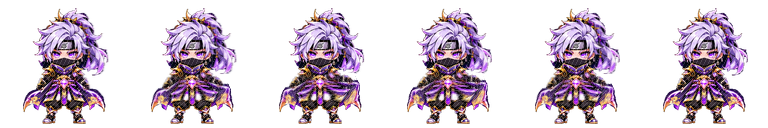
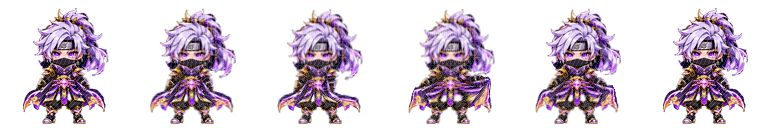
Polish Tsukiyomi expressions and reduced-motion reactions on beta

diff --git a/mythic-hero/articulated-sprite.js b/mythic-hero/articulated-sprite.js
@@ -1,4 +1,4 @@
-/* Tsukiyomi v3: continuous texture skinning of the approved four views.
+/* Tsukiyomi v4: continuous texture skinning of the approved four views.
  * Mesh construction happens only on a body-cache miss, never in the warm draw pass.
  * No body substitution, cut-out seams, movement changes or gameplay dependencies. */
 (() => {
@@ -10,10 +10,29 @@
     left:{hips:[60,70],hipY:100,shoulders:[52,67],shoulderY:75},
     right:{hips:[58,68],hipY:100,shoulders:[61,76],shoulderY:75}
   };
-  function point(x,y,state,frame,direction,frames=8) {
+  // Authored pose curves, in source pixels/radians. They never read or alter gameplay.
+  function gesture(state,frame,frames) {
+    const t=clamp(frame/Math.max(1,frames-1)),pulse=Math.sin(t*Math.PI),p=frame/frames*Math.PI*2;
+    const g={arms:[0,0],crouch:0,lean:0,nod:0,lift:0,breath:0,blink:0};
+    if(state==='IDLE'){g.breath=Math.sin(p)*.8;g.blink=frame===6?.85:frame===5?.2:0;}
+    if(state==='ATTACK'||state.startsWith('SKILL_')){
+      const swing=[0,-.26,-.62,.95,.38,0][Math.min(5,Math.round(t*5))];
+      g.arms=[swing*.35,-swing];g.lean=swing*2.8;g.crouch=Math.sin(t*Math.PI)*1.5;
+    }
+    if(state==='BOMB_PLACE'){g.crouch=pulse*9;g.lean=pulse*2;g.nod=pulse*.08;g.arms=[pulse*-.55,pulse*.55];}
+    if(state==='HURT'){const recoil=[1,.65,.18,0][Math.min(3,frame)];g.lean=-4*recoil;g.crouch=2*recoil;g.nod=-.08*recoil;g.arms=[-.35*recoil,.4*recoil];}
+    if(state==='DEFEAT'){const sink=smooth(0,.85,t);g.crouch=20*sink;g.lean=-4*sink;g.nod=.16*sink;g.arms=[.2*sink,-.25*sink];g.blink=sink;}
+    if(state==='VICTORY'){const cheer=Math.sin(Math.PI*t)**2;g.arms=[-.9*cheer,.9*cheer];g.nod=-.06*cheer;g.lift=2*cheer;}
+    if(state==='EMOTE_ALERT'){g.arms=[-.3*pulse,.3*pulse];g.lift=pulse*1.5;g.nod=-.07*pulse;}
+    if(state==='EMOTE_QUESTION'){g.arms=[-.8*pulse,0];g.nod=.13*pulse;g.lean=pulse;}
+    if(state==='EMOTE_LIKE'){g.arms=[0,1.05*pulse];g.nod=-.04*pulse;}
+    if(state==='EMOTE_CELEBRATE'){g.arms=[-1.05*pulse,1.05*pulse];g.lift=3*pulse;g.nod=-.05*pulse;}
+    return g;
+  }
+  function point(x,y,state,frame,direction,frames=8,g=gesture(state,frame,frames)) {
     const rig=landmarks[direction]||landmarks.front,side=direction==='left'||direction==='right',face=direction==='left'?-1:1;
     const p=frame/frames*Math.PI*2,walk=state.startsWith('WALK')||state==='RUN',run=state==='RUN';
-    const stride=walk?Math.sin(p):0,opposite=-stride,attack=state==='ATTACK'||state.startsWith('SKILL_');
+    const stride=walk?Math.sin(p):0,opposite=-stride;
     let dx=0,dy=0;
     // Two opposing hip/knee/ankle chains. The planted foot stays at y=124.
     const leg=smooth(rig.hipY-3,rig.hipY+9,y),right=side?0:smooth(61,68,x);
@@ -25,9 +44,7 @@
       const sx=rig.shoulders[i],sy=rig.shoulderY,armSide=i?1:-1;
       const region=smooth(sy-2,sy+8,y)*(1-smooth(94,102,y))*(1-smooth(side?6:8,side?13:17,Math.abs(x-(sx+armSide*4))));
       let angle=(i?stride:opposite)*(run?.46:.32);
-      if(attack)angle+=face*Math.sin(frame/Math.max(1,frames-1)*Math.PI)*(i?-.7:.25);
-      if(state==='BOMB_PLACE')angle+=Math.sin(frame/(frames-1)*Math.PI)*armSide*.3;
-      if(state==='VICTORY'||state==='EMOTE_CELEBRATE')angle+=Math.sin(frame/(frames-1)*Math.PI)*armSide*-.55;
+      angle+=g.arms[i]*(side?face:1);
       const ax=x-sx,ay=y-sy;
       dx+=region*(Math.cos(angle)*ax-Math.sin(angle)*ay-ax);
       dy+=region*(Math.sin(angle)*ax+Math.cos(angle)*ay-ay);
@@ -36,6 +53,19 @@
     dx+=Math.sin(p+.8)*(walk?1.5:.3)*smooth(74,90,x)*(1-smooth(89,102,y));
     dx+=Math.sin(p+.4)*(walk?1.4:.25)*smooth(82,95,y)*(1-smooth(102,111,y))*(1-smooth(12,27,Math.abs(x-64)));
     if(walk){dy-=Math.abs(Math.sin(p))*1.1*(1-leg);dx+=face*(run?2:0)*smooth(104,55,y)}
+    // Bend through hips/knees while the soles stay planted; head/costume remain coherent.
+    const upper=1-smooth(96,124,y),head=1-smooth(62,76,y);
+    dx+=g.lean*face*upper;
+    dy+=(g.crouch-g.lift-g.breath)*upper;
+    const hx=x-64,hy=y-67,angle=g.nod*face;
+    dx+=head*(Math.cos(angle)*hx-Math.sin(angle)*hy-hx);
+    dy+=head*(Math.sin(angle)*hx+Math.cos(angle)*hy-hy);
+    // Close only the existing eye band. No painted replacement face or borrowed eyes.
+    if(direction!=='back'&&g.blink){
+      const eyeX=direction==='front'?64:direction==='left'?52:72,eyeY=direction==='front'?54:53;
+      const eye=(1-smooth(3,9,Math.abs(y-eyeY)))*(1-smooth(direction==='front'?10:4,direction==='front'?18:10,Math.abs(x-eyeX)));
+      dy-=(y-eyeY)*g.blink*eye;
+    }
     return [x+dx,y+dy];
   }
   function triangle(c,img,u,v,w,a,b,d){
@@ -51,6 +81,7 @@
     c.closePath();c.clip();c.transform(A,B,C,D,a[0]-A*u[0]-C*u[1],a[1]-B*u[0]-D*u[1]);c.drawImage(img,0,0,128,128);c.restore();
   }
   function paint(c,img,state,frame,direction,frames){
+    const gesturePose=gesture(state,frame,frames);
     c.save();c.translate(-160,-310);c.scale(2.5,2.5);
     // Side references hide one leg. Reuse this hero's own boot behind the body, keeping
     // the visible boot rigid instead of splitting/stretching it into opposing halves.
@@ -61,12 +92,25 @@
     }
     // Sparse top rows preserve the face; finer rows resolve arms, knees and boots.
     const xs=[0,16,24,32,40,44,48,52,56,60,64,68,72,76,80,84,88,96,104,112,128];
-    const ys=[0,8,24,40,56,64,70,74,78,82,86,90,94,98,102,106,110,114,118,124,128];
+    const ys=['IDLE','DEFEAT'].includes(state)?[0,8,24,40,46,50,52,54,56,58,62,64,70,74,78,82,86,90,94,98,102,106,110,114,118,124,128]:[0,8,24,40,56,64,70,74,78,82,86,90,94,98,102,106,110,114,118,124,128];
     for(let j=0;j<ys.length-1;j++)for(let i=0;i<xs.length-1;i++){
       const u=[xs[i],ys[j]],v=[xs[i+1],ys[j]],w=[xs[i],ys[j+1]],z=[xs[i+1],ys[j+1]];
-      const a=point(...u,state,frame,direction,frames),b=point(...v,state,frame,direction,frames),d=point(...w,state,frame,direction,frames),e=point(...z,state,frame,direction,frames);
+      const a=point(...u,state,frame,direction,frames,gesturePose),b=point(...v,state,frame,direction,frames,gesturePose),d=point(...w,state,frame,direction,frames,gesturePose),e=point(...z,state,frame,direction,frames,gesturePose);
       triangle(c,img,u,v,w,a,b,d);triangle(c,img,v,z,w,b,e,d);
     }c.restore();
   }
-  window.TsukiyomiRig={paint,point,version:3};
+  // Vector expressions are separate from character art and independent of system fonts.
+  function expression(c,state,frame,frames){
+    if(!state.startsWith('EMOTE_'))return;
+    const p=frame/Math.max(1,frames-1)*Math.PI;
+    c.save();c.translate(263,67-Math.sin(p)*6);c.scale(1+Math.sin(p)*.08,1+Math.sin(p)*.08);
+    c.fillStyle='#160c30';c.strokeStyle='#cba1ff';c.lineWidth=2;c.beginPath();c.arc(0,0,21,0,Math.PI*2);c.fill();c.stroke();
+    c.strokeStyle='#f3e3ff';c.fillStyle='#f3e3ff';c.lineWidth=3.5;c.lineCap='round';c.lineJoin='round';c.beginPath();
+    if(state==='EMOTE_ALERT'){c.moveTo(0,-11);c.lineTo(0,3);c.stroke();c.beginPath();c.arc(0,10,2,0,Math.PI*2);c.fill();}
+    if(state==='EMOTE_QUESTION'){c.moveTo(-7,-7);c.bezierCurveTo(-7,-16,10,-16,8,-6);c.bezierCurveTo(7,-1,0,-2,0,4);c.stroke();c.beginPath();c.arc(0,11,2,0,Math.PI*2);c.fill();}
+    if(state==='EMOTE_LIKE'){c.moveTo(0,12);c.bezierCurveTo(-25,-3,-8,-19,0,-8);c.bezierCurveTo(8,-19,25,-3,0,12);c.fillStyle='#e8a0ee';c.fill();}
+    if(state==='EMOTE_CELEBRATE'){for(let i=0;i<8;i++){const a=i*Math.PI/4-Math.PI/2,r=i%2?4:14;const x=Math.cos(a)*r,y=Math.sin(a)*r;i?c.lineTo(x,y):c.moveTo(x,y)}c.closePath();c.fillStyle='#ffe59f';c.fill();}
+    c.restore();
+  }
+  window.TsukiyomiRig={paint,point,gesture,expression,version:4};
 })();

diff --git a/mythic-hero/animation-runtime.js b/mythic-hero/animation-runtime.js
@@ -1,4 +1,4 @@
-/* Tsukiyomi animation adapter v3: articulated locomotion and celestial VFX.
+/* Tsukiyomi animation adapter v4: expressive gestures and readable reactions.
  * Observes authoritative gameplay events; never applies damage. Approved views are skinned,
  * not replaced with another hero. See metadata/animations.json and ASSET_AUDIT.md. */
 (() => {
@@ -153,22 +153,13 @@
     if(bodies.has(key))return bodies.get(key);
     const c=document.createElement('canvas');c.width=320;c.height=400;c.designSprite=true;c.mythicBody=true;
     const ctx=c.getContext('2d'),view=api.source.character[dir],img=api.getTexture(view.path);
-    const phase=index/clip.frames*Math.PI*2;let sx=1,sy=1,rot=0,dx=0,dy=0;
-    // Explicit pose-rig fallback: stable foot pivot, unchanged costume, bounded motion.
-    if(state==='IDLE')sy=1+.008*Math.sin(phase);
-    if(state==='BOMB_PLACE')sy=1-.12*Math.sin(index/(clip.frames-1)*Math.PI);
-    if(state==='HURT'){rot=-.035*(1-index/clip.frames);dx=-3*(1-index/clip.frames)}
-    if(state==='DEFEAT'){sy=1-.25*index/7;rot=-.15*index/7}
-    if(state==='VICTORY')dy=-8*Math.sin(index/7*Math.PI);
-    if(state==='ATTACK'||state.startsWith('SKILL_'))rot=.03*Math.sin(index/(clip.frames-1)*Math.PI)*(dir==='left'?-1:1);
     const atlas=authored.get(clip.directionTextures?.[dir] || clip.texture);
-    ctx.save();ctx.translate(160+(atlas?0:dx),352+(atlas?0:dy));ctx.rotate(atlas?0:rot);ctx.scale(atlas?1:sx,atlas?1:sy);
+    // Shared baked idle/movement/attack; rare reactions use the same fixed-foot rig once
+    // per cache miss. Do not scale/tilt the entire character on top of the articulated pose.
+    ctx.save();ctx.translate(160,352);
     if(atlas){const columns=clip.columns||clip.frames;ctx.drawImage(atlas,index%columns*128,Math.floor(index/columns)*128,128,128,-64*2.5,-124*2.5,320,320)}
     else TsukiyomiRig.paint(ctx,img,state,index,dir,clip.frames);ctx.restore();
-    if(!atlas && state.startsWith('EMOTE_')){
-      const labels={EMOTE_ALERT:'!',EMOTE_QUESTION:'?',EMOTE_LIKE:'♥',EMOTE_CELEBRATE:'✦'};
-      ctx.save();ctx.fillStyle='#dfb6ff';ctx.font='bold 30px system-ui';ctx.textAlign='center';ctx.fillText(labels[state],260,70-Math.sin(index/3*Math.PI)*5);ctx.restore();
-    }
+    TsukiyomiRig.expression(ctx,state,index,clip.frames);
     c.playerModel={model:'tsukiyomi',key,direction:frameInfo(h,'mythic:'+state+':'+index+':'+dir).name};
     c.mythicAnimation={state,frame:index,direction:dir,assetStatus:clip.assetStatus};
     bodies.set(key,c);if(bodies.size>manifest.limits.textureFrames)bodies.delete(bodies.keys().next().value);

diff --git a/mythic-hero/animation-controller.js b/mythic-hero/animation-controller.js
@@ -53,7 +53,7 @@
       if (!clip.loop) {
         const current=Math.min(clip.frames-1,Math.floor(age/clip.durationMs*clip.frames));
         for (const [name,frame] of Object.entries(clip.events || {})) if (frame>r.emitted && frame<=current) emit(r,name,frame);
-        r.emitted=Math.max(r.emitted,current); r.frame=current;
+        r.emitted=Math.max(r.emitted,current); r.frame=context.reducedMotion?(clip.reducedFrame??0):current;
         if (age<clip.durationMs) return r;
         emit(r,'complete',clip.frames-1);
         enter(r,'IDLE',now,null);

diff --git a/mythic-hero/MOTION_V4.md b/mythic-hero/MOTION_V4.md
@@ -1,0 +1,42 @@
+# Tsukiyomi expressions and reactions — beta only, November 8, 2026
+
+Continues the owner's approved beta animation polish after v3. Targets `main` / `shinobi-bombers-beta` only. No production, wallet, NFT, balance or reward changes.
+
+## What changed
+
+- Idle: eight breathing/hair frames and a localized blink in the existing eye band. All four approved directional images are preserved; the back view has no invented eyes.
+- Attack: six poses with anticipation, swing, follow-through and recovery, articulated through shoulders and wrists. Movement still uses the independent gait while the existing slash VFX plays.
+- Bomb placement: a short bend at the hips and knees with a reaching gesture. It observes the accepted native placement, without delaying or creating another bomb.
+- Hurt: four recoil/recovery poses. Defeat: eight poses settling into a kneel. Victory: eight restrained arm-raise/settle poses with the existing sparkle layer.
+- Alert, Question, Like and Celebrate: distinct gestures with four frames each. Their symbols use vector paths rather than font glyphs, keeping them consistent across browsers.
+- Reduced motion: one-shot actions now hold a representative still pose, while callback and completion timing continues normally. This fixes the previous early return that skipped the reduced-motion setting for actions. Comfort walking remains gentle; OS reduced motion still holds locomotion.
+
+The source is still the approved four-view artwork, articulated by code. No new character, aura, or skill art was generated in this release. These are not hand-drawn redraws of each action. Hurt/defeat and emotes remain available through the existing `MythicHero.cosmeticEvent` integration and local inspector; no health/death mechanic, emote menu, or extra combat event was invented. Existing stage-victory and accepted-shot/placement hooks remain intact.
+
+## Assets and performance
+
+The existing `rig-v3` bake pipeline/directory now contains sixteen shared PNG atlases: 120 distinct 128×128 RGBA idle/walk/run/attack frames across four directions. The eight walking/running atlases are unchanged. Rare gestures use the same renderer on a bounded cache miss. Gesture parameters are calculated once per render, rather than once per mesh vertex. No new particle system or per-frame warm allocations were introduced; the existing 160 body / 120 effect texture caps remain.
+
+`assets/metadata/rig-v3.json` continues to record the normalized generator hash and original image hashes; its version describes the bake format. `animations.json` keeps schema version 2 and advances `presentationVersion` to 4. Existing save and hero schemas do not change. The previous skill effects and aura files are unchanged.
+
+## Local rebuild and preview
+
+Use Node 22 and installed test dependencies/Chrome:
+
+```powershell
+node mythic-hero/tools/bake-motion.cjs
+node mythic-hero/tools/build-runtime.cjs
+node unpack.cjs
+# Remove the three stale generated files listed in PROJECT_STATUS.md.
+node mythic-hero/tools/preview.cjs
+```
+
+Choose an animation and direction in the isolated inspector. Its canvas shows the exact runtime frames at 32/48/64/128px. No real wallet is connected. Do not reapply `apply-mythic-hero.cjs` to a fully patched app: later server patches alter its anchors; use fresh unpack.
+
+## Verification
+
+`tests/mythic-expressions.cjs` checks fixed soles, the localized eye closure, a lowered defeat pose, all ten distinct character timelines and four directions, distinct expression symbols, unchanged game state, reduced-motion callbacks once, browser reduced-motion behavior, and zero new canvases over 1,120 warm lookups. `mythic-motion-v3.cjs` now validates all 120 baked frames, while retaining movement, VFX and ten-hero checks. The importer fixture still tests a replacement authored atlas.
+
+Rendered review: `tests/out/mythic-v4-expressions.png` and the existing directional/Adventure galleries. These checks are not a physical-phone FPS benchmark. Full release check results are recorded in PROJECT_STATUS.md and `tests/out/mythic-v4-*.log`.
+
+Release validation passed on Node 22: fresh unpack, lint, rewards guard, all 55 suites and website checks. The first full run found a Dojo fixture race where a late profile response restored a three-hour rental after the browser shortened it. The fixture now updates the simulated server expiry as well, preserving the original four-second assertion timeout; the full rerun passed. No Dojo runtime change was needed. All sixteen atlases passed dimension, alpha-padding and unique-frame checks. The final warm-render samples allocated zero canvases.

diff --git a/PROJECT_STATUS.md b/PROJECT_STATUS.md
@@ -108,6 +108,22 @@ that they are unavailable.
 
 ## Handoff notes (Claude ↔ Codex)
 
+- 2026-11-08 MYTHIC EXPRESSIONS V4 — continued polish authorized for TEST SERVER ONLY.
+  Targets main / shinobi-bombers-beta; never push live. See mythic-hero/MOTION_V4.md.
+  Added localized idle blink/breathing, attack anticipation/recovery, articulated bomb,
+  hurt/kneeling defeat/victory/emote gestures and font-independent expression symbols.
+  Fixed non-looping actions bypassing reduced motion without changing event timing.
+  Existing rig-v3 bake format now contains 16 atlases / 120 frames (4 new idle atlases);
+  walk/run files are unchanged. Manifest schema v2, presentationVersion 4. No new aura,
+  VFX, ownership, combat, wallet or economy changes. Hurt/defeat/emotes use the existing
+  cosmetic integration point/preview; no new health or death rules were added.
+  Fresh unpack and focused tests passed; all-state rendered gallery inspected.
+  Release validation: fresh unpack, lint, rewards guard, all 55 suites and website checks
+  passed. Logs: tests/out/mythic-v4-{build,lint,rewards,tests-final}.log. First full run
+  exposed a Dojo fixture race: late profile responses restored its old rental time.
+  Updated the simulated server expiry along with the browser; same assertion/4s timeout.
+  Untracked Shinobi_Bombers_Live_Treasury_Integration_Pack/ remains unrelated owner work.
+
 - 2026-11-07 MYTHIC MOTION V3 — TEST SERVER ONLY, owner requested the feet/arms and
   skill presentation fixed and optimized. Targets main / shinobi-bombers-beta only.
   See mythic-hero/MOTION_V3.md. Added separate limb skinning of the approved views,

diff --git a/PATCH_NOTES.md b/PATCH_NOTES.md
@@ -20,6 +20,19 @@ Thanks for playing — see you on the battlefield! 🥷
 
 ---
 
+**SHINOBI BOMBERS — TEST SERVER PATCH NOTES (Nov 8, 2026 · Tsukiyomi Expressions)**
+
+• Added gentle breathing and blinking to Tsukiyomi's idle animation in his approved character design.
+• Polished attack wind-up, follow-through and recovery, plus bomb-placement and victory gestures.
+• Improved the hurt, kneeling defeat and four emote animations available in the test preview.
+• Alert, Question, Like and Celebrate now use consistent, clear symbols across browsers.
+• Fixed action animations ignoring reduced-motion settings. Animation events retain their original timing.
+• Added shared idle frames and retained bounded caches. Combat, NFT ownership, the Mythic Aura and Ryo rewards are unchanged.
+
+Test server only. Production is unchanged.
+
+---
+
 **SHINOBI BOMBERS — TEST SERVER PATCH NOTES (Nov 7, 2026 · Mythic Motion & Effects)**
 
 • Tsukiyomi now moves his arms and legs while walking and running in all four directions. Attacks no longer freeze his footsteps.

diff --git a/mythic-hero/README.md b/mythic-hero/README.md
@@ -1,6 +1,6 @@
 # Tsukiyomi — Mythic Shinobi (hero 13, rank 5)
 
-**Current beta movement/effects:** [MOTION_V3.md](MOTION_V3.md) documents the articulated motion, continuous gait during volleys, Comfort behavior, new skill renderer and tests. No production deployment is authorized for this update.
+**Current beta expressions/reactions:** [MOTION_V4.md](MOTION_V4.md) covers idle blinking, gestures, reaction poses, vector emotes and reduced-motion fixes. [MOTION_V3.md](MOTION_V3.md) documents the prior movement/effects work. No production deployment is authorized for this update.
 
 **Animation v2 beta release:** see [ASSET_AUDIT.md](ASSET_AUDIT.md) for current behavior,
 the seven-star display, runtime/import contract, preview commands, test evidence and missing

diff --git a/mythic-hero/MOTION_V3.md b/mythic-hero/MOTION_V3.md
@@ -1,5 +1,7 @@
 # Tsukiyomi movement and celestial effects v3 — beta only
 
+Historical v3 release notes. [MOTION_V4.md](MOTION_V4.md) documents the subsequent character-expression polish and current 120-frame bake output.
+
 The owner reported frozen feet/arms and underwhelming skill effects. This release targets `main` / `shinobi-bombers-beta` only. Production's `live` branch, server environment and accounts are unchanged.
 
 ## Movement fix
